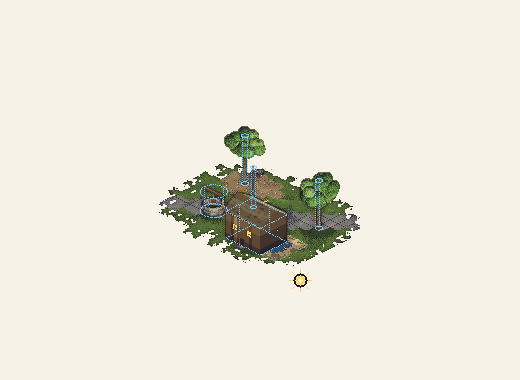
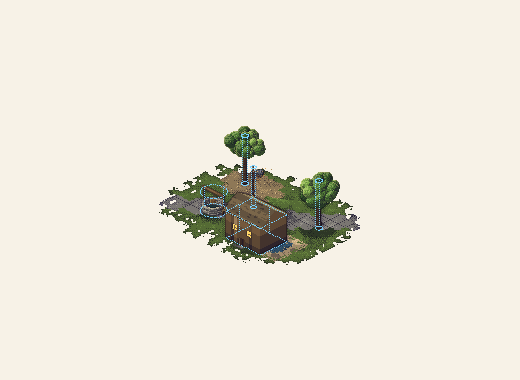
光照复刻参考项目：固定光照，移除动态光源
对照 reference/pixel-plays/engine.js 逐项复刻：
- sphere 光照方向用固定常量 (-.55,-.6,.58)，不再读 LIGHT.dir
- box 三面亮度固定 3.4/2.3/1.2（litLevel 改为查表，构件里的 ctx.lit 自动等效）
- castShadow 用固定 SHADOW_X/Y (1.3,-.12)
- 默认 LIGHT.dir/shadow 恢复参考值
- 移除预览 ☀ 控件、编辑器太阳 gizmo、光照方向滑块
  （参考项目的光照是固定美术设定，不是可交互光源）

同时修复三轴改造引入的逆旋转 bug：
unproject 的逆变换写成了正向旋转，23° 预览下锥树树冠被裁掉一半
（10491 → 5253 像素），改回转置后恢复（10329）。

diff --git a/demo/studio/editor-light.js b/demo/studio/editor-light.js
@@ -12,38 +12,8 @@
 function ED_initLightingUI() {
   const amb = document.getElementById('lt-ambient');
   const vg = document.getElementById('lt-vignette');
-  const lz = document.getElementById('lt-z');
-  const lr = document.getElementById('lt-rot');
   const pts = document.getElementById('lt-points');
   if (!amb) return;
-
-  const syncDir = () => {
-    /* 方位角（水平面内的光来向）+ 高度角 → 光照向量。
-       0° = 光从屏幕左上（经典等距默认），顺时针旋转 */
-    const a = Number(lr.value) * Math.PI / 180;
-    const hz = Number(lz.value);
-    const horiz = Math.sqrt(Math.max(0, 1 - hz * hz));
-    LIGHT.dir.x = -Math.cos(a) * horiz;
-    LIGHT.dir.y = -Math.sin(a) * horiz;
-    LIGHT.dir.z = hz;
-    /* 阴影投向背光侧 = 光传播方向的水平投影（与 dir.xy 同向） */
-    LIGHT.shadow.x = 1.5 * LIGHT.dir.x / Math.max(.2, LIGHT.dir.z);
-    LIGHT.shadow.y = 1.5 * LIGHT.dir.y / Math.max(.2, LIGHT.dir.z);
-    document.getElementById('v-lightz').textContent = hz.toFixed(2);
-    document.getElementById('v-lightrot').textContent = lr.value + '°';
-    ED.dirty = true;
-  };
-
-  /* 初始化：用引擎当前的方向光回填滑块（否则滑块默认值会把 LIGHT.dir 改掉） */
-  {
-    const hz0 = Math.max(.15, Math.min(.95, LIGHT.dir.z));
-    let a0 = Math.atan2(-LIGHT.dir.y, -LIGHT.dir.x) * 180 / Math.PI;
-    a0 = ((a0 % 360) + 360) % 360;
-    lz.value = hz0.toFixed(2);
-    lr.value = String(Math.round(a0));
-    document.getElementById('v-lightz').textContent = hz0.toFixed(2);
-    document.getElementById('v-lightrot').textContent = Math.round(a0) + '°';
-  }
 
   amb.addEventListener('input', () => {
     LIGHT.ambient = Number(amb.value);
@@ -55,8 +25,6 @@ function ED_initLightingUI() {
     document.getElementById('v-vignette').textContent = Number(vg.value).toFixed(2);
     ED.dirty = true;
   });
-  lz.addEventListener('input', syncDir);
-  lr.addEventListener('input', syncDir);
   if (pts) pts.addEventListener('change', () => {
     /* 关掉点光源 = 清空收集（渲染时跳过） */
     ED.pointsEnabled = pts.checked;
@@ -250,82 +218,3 @@ function ED_renderLightPanel(info) {
 }
 
 
-/* ---------------- 太阳 gizmo：方向光可视化拖动 ----------------
- * 画布右上区域一个太阳，拖它 = 改方向光的方位角与高度角。
- * 方位：太阳相对画布中心的方向；高度：离中心越近越高（顶光）。
- * 与「光照」面板的两个滑块共用同一条 syncDir 通道。
- */
-
-function ED_sunPos() {
-  const cx = W / 2, cy = H / 2;
-  const maxR = Math.min(W, H) * .38;
-  const horiz = Math.hypot(LIGHT.dir.x, LIGHT.dir.y) || .001;
-  /* 光传播方向的反向 = 光源所在侧 */
-  const ux = -LIGHT.dir.x / horiz, uy = -LIGHT.dir.y / horiz;
-  /* 固定在视口外圈：顶光也离中心够远，不会被场景物体盖住 */
-  const dist = (0.62 + 0.38 * (1 - LIGHT.dir.z)) * maxR;
-  return { x: cx + ux * dist, y: cy + uy * dist, cx, cy, maxR };
-}
-
-function ED_drawSun() {
-  if (ED.tool === 'pan') return;
-  const p = ED_sunPos();
-  const glow = rgb(255, 210, 110), core = rgb(255, 246, 196);
-  const ink = rgb(26, 26, 32);
-  const px = Math.round(p.x), py = Math.round(p.y);
-
-  /* 方向虚线：从太阳指向场景中心（光传播方向），暗底 + 亮线，任何背景上都读得出来 */
-  const dx = p.cx - p.x, dy = p.cy - p.y;
-  const len = Math.hypot(dx, dy) || 1;
-  const ux = dx / len, uy = dy / len;
-  for (let t = 16; t < len - 14; t += 10) {
-    const x = Math.round(p.x + ux * t), y = Math.round(p.y + uy * t);
-    ED_plotScreen(x, y, ink);
-    ED_plotScreen(x, y + 1, glow);
-  }
-  /* 箭头（靠近中心一端） */
-  const ax = Math.round(p.x + ux * (len - 12)), ay = Math.round(p.y + uy * (len - 12));
-  for (let k = -2; k <= 2; k++) {
-    ED_plotScreen(ax - Math.round(uy * k), ay + Math.round(ux * k), glow);
-  }
-
-  /* 暗色外圈：把太阳从场景里"抠"出来 */
-  for (let dy2 = -7; dy2 <= 7; dy2++) for (let dx2 = -7; dx2 <= 7; dx2++) {
-    const d2 = dx2 * dx2 + dy2 * dy2;
-    if (d2 > 49 || d2 <= 25) continue;
-    ED_plotScreen(px + dx2, py + dy2, ink);
-  }
-  /* 太阳本体 */
-  for (let dy2 = -5; dy2 <= 5; dy2++) for (let dx2 = -5; dx2 <= 5; dx2++) {
-    const d2 = dx2 * dx2 + dy2 * dy2;
-    if (d2 > 24) continue;
-    ED_plotScreen(px + dx2, py + dy2, d2 <= 4 ? core : glow);
-  }
-  /* 光芒 */
-  for (let k = 0; k < 8; k++) {
-    const a = k / 8 * Math.PI * 2;
-    for (let r = 8; r <= 11; r++) {
-      ED_plotScreen(Math.round(px + Math.cos(a) * r), Math.round(py + Math.sin(a) * r), glow);
-    }
-  }
-}
-
-/** 命中太阳（屏幕坐标，半径 12px） */
-function ED_pickSun(sx, sy) {
-  const p = ED_sunPos();
-  return Math.hypot(sx - p.x, sy - p.y) < 12;
-}
-
-/** 拖动太阳 → 更新方向光方位/高度（复用滑块的 input 通道） */
-function ED_sunDragTo(sx, sy) {
-  const p = ED_sunPos();
-  const dx = sx - p.cx, dy = sy - p.cy;
-  const dist = Math.hypot(dx, dy);
-  const hz = Math.max(.08, Math.min(1, 1 - dist / p.maxR));
-  let aDeg = Math.atan2(dy, dx) * 180 / Math.PI;
-  aDeg = ((aDeg % 360) + 360) % 360;
-  const lr = document.getElementById('lt-rot');
-  const lz = document.getElementById('lt-z');
-  if (lr) { lr.value = String(Math.round(aDeg)); lr.dispatchEvent(new Event('input')); }
-  if (lz) { lz.value = String(hz.toFixed(2)); lz.dispatchEvent(new Event('input')); }
-}

diff --git a/demo/engine.js b/demo/engine.js
@@ -1,11 +1,8 @@
 'use strict';
 /* ------------------------------------------------------------------
- * 最小等距像素渲染器
- * 参考 pixel-plays 的 engine.js，只保留最小闭环：
- * 等距投影 / 深度缓冲 / 球体+胶囊+盒子 / 5 级色阶 / Bayer 抖动 /
- * 投影阴影 / 深度边缘
- *
- * 引擎级设施：capture 像素缓存（风动基础）/ staticShadow 联动 / bakeOcclusion()。
+ * 最小等距像素渲染器（复刻 pixel-plays/engine.js）
+ * 等距投影 / 深度缓冲 / 球体+胶囊+盒子 / 5 级色阶 / Bayer 抖动 / 投影阴影 / 深度边缘
+ * 引擎级设施：capture 像素缓存（风动基础）/ staticShadow 联动 / bakeOcclusion()
  * ------------------------------------------------------------------ */
 
 /* 画布尺寸：PP_W/PP_H 覆盖；PP_FULLSCREEN=true 时铺满窗口（像素数 = 窗口 / PP_SCALE）。
@@ -18,9 +15,8 @@ let OY = H / 2 + (window.PP_ORIGIN_Y == null ? 18 : window.PP_ORIGIN_Y);
 
 /* 全局光照配置（兼容 Studio 光照系统，默认等距斜上方平行光） */
 const LIGHT = window.LIGHT || {
-  /* 方向光：x/y 光来自哪侧，z 高度角；构件不自己定义光源。阴影由它派生。 */
-  dir: { x: -0.22, y: -0.5, z: 0.84 },
-  shadow: { x: 0.39, y: 0.89 },
+  dir: { x: -0.55, y: -0.6, z: 0.58 },   // 参考项目的固定光照方向
+  shadow: { x: 1.3, y: -0.12 },
   tint: [1, 1, 1],
   ambient: 1,
   vignette: 0,
@@ -28,6 +24,7 @@ const LIGHT = window.LIGHT || {
 };
 const canvas = document.getElementById('c');
 const ctx = canvas.getContext('2d');
+const SHADOW_X = 1.3, SHADOW_Y = -0.12;   // 参考项目的固定阴影偏移
 /* 地面材质标记：KIND_GRASS 的像素才长草，球场/屋顶上自动没有草 */
 const KIND_NONE = 0, KIND_GRASS = 3;
 
@@ -63,7 +60,6 @@ window.PP_SCENE = { get W() { return W; }, get H() { return H; }, get pix() { re
 const BAYER = [0, 8, 2, 10, 12, 4, 14, 6, 3, 11, 1, 9, 15, 7, 13, 5].map(v => (v + .5) / 16);
 const COOL = [46, 38, 84], WARM = [255, 232, 180];
 const GRADIENT_Y = COS / (S * SIN), EDGE = .28;
-
 
 /* rim 模式：环带内径比例（外径=1）。越小描边越粗。
  * ★ 参考图（3× 放大实测）：树冠描边是**连续的深褐色闭合轮廓**，
@@ -121,11 +117,14 @@ function tint(i, r, g, b) {
 }
 
 /* 30° 正交等距投影 */
-/* 世界法线 → 色阶档位（0~4）。由 LIGHT.dir 驱动：光从哪边来，朝那边的面就亮。 */
+/* 面亮度查表 —— 复刻参考项目 box() 的固定设定：顶 3.4 / 正 2.3 / 右 1.2。 */
 function litLevel(nx, ny, nz) {
-  const d = LIGHT.dir;
-  const l = clamp(-(d.x * nx + d.y * ny) + d.z * nz, 0, 1);
-  return clamp(1.1 + 2.6 * Math.pow(l, 1.3), 0, 4);
+  if (nz > .85) return 3.4;
+  if (ny > .3) return 2.3;
+  if (ny < -.3) return 1.5;
+  if (nx > 0) return 1.2;
+  if (nx < 0) return 2.0;
+  return 2.3;
 }
 
 function project(x, y, z) {
@@ -162,7 +161,7 @@ function sphere(x, y, z, r, c, mode) {
     /* 深度检查对 capture 同样生效：被场景物体挡住的像素不进入缓存，
        否则回放时树叶会盖在树干前面 */
     if (d <= zb[i]) continue;
-    let l = clamp(-LIGHT.dir.x * dx - LIGHT.dir.y * dy + LIGHT.dir.z * nz, 0, 1);
+    let l = clamp(-.55 * dx - .6 * dy + .58 * nz, 0, 1);
     if (mode === 'rough') l += (hash(ix, iy) - .5) * .55;
     if (dy > .35) l = Math.max(l, .12 + dy * .24);   // 地面反弹的暖光
     if (capture) {
@@ -246,7 +245,7 @@ function box(x0, y0, z0, x1, y1, z1, c, seed = 0) {
 
 /* 投影阴影：把 (x,y,z) 沿光方向压到地面，写椭圆 mask */
 function castShadow(x, y, z, r, strength = 1, dither = .4) {
-  const p = project(x + LIGHT.shadow.x * z, y + LIGHT.shadow.y * z, 0);
+  const p = project(x + SHADOW_X * z, y + SHADOW_Y * z, 0);
   const rx = r * S * 1.05, ry = rx * SIN + 1;
   const y0 = Math.max(0, Math.floor(p.sy - ry)), y1 = Math.min(H - 1, Math.ceil(p.sy + ry));
   const x0 = Math.max(0, Math.floor(p.sx - rx)), x1 = Math.min(W - 1, Math.ceil(p.sx + rx));

diff --git a/demo/studio/preview.js b/demo/studio/preview.js
@@ -26,8 +26,6 @@ const PV = {
   lightOn: true,
   lightTone: 'warm',     // warm | cool | neutral
   /* 方向光：方位角（屏幕方向）+ 高度角（0~1），由预览区的太阳控件驱动 */
-  sunAz: Math.atan2(0.5, 0.22),
-  sunEl: 0.84,
 };
 
 /* 背景两套（地面圆盘色阶跟着背景走） */
@@ -142,7 +140,7 @@ function PV_makeCtx(p) {
     unproject: (ix, iy, z) => {
       if (!has3D) {
         const P0 = unprojectAt(ix + .5 - aX, iy + .5 - aY, z * sc + aZ);
-        return [(P0[0] * cZ - P0[1] * sZ) / sc, (P0[0] * sZ + P0[1] * cZ) / sc];
+        return [(P0[0] * cZ + P0[1] * sZ) / sc, (-P0[0] * sZ + P0[1] * cZ) / sc];
       }
       const P0 = unprojectAt(ix + .5 - aX, iy + .5 - aY, pivotZ + aZ);
       const kd = R2 / 2 * COS / SIN;
@@ -226,17 +224,7 @@ function PV_render() {
 /* 光源开关 + 色系：开关只改光的方向（关 → 顶光，明暗更平）；
    色系是整幅画面的 RGB 乘数（暖白/冷白/中性） */
 function PV_applyLight() {
-  const el = PV.sunEl;
-  const horiz = Math.sqrt(Math.max(0, 1 - el * el));
-  const dir = PV.lightOn
-    ? { x: -Math.cos(PV.sunAz) * horiz, y: -Math.sin(PV.sunAz) * horiz, z: el }
-    : { x: 0, y: 0, z: 1 };
-  if (typeof LIGHT !== 'undefined' && LIGHT.dir) {
-    LIGHT.dir.x = dir.x; LIGHT.dir.y = dir.y; LIGHT.dir.z = dir.z;
-    /* 阴影投向背光侧：与方向光的水平投影一致 */
-    LIGHT.shadow.x = 1.5 * dir.x / Math.max(.2, dir.z);
-    LIGHT.shadow.y = 1.5 * dir.y / Math.max(.2, dir.z);
-  }
+  /* 光照明暗是固定美术设定（复刻参考项目）；这里只做色系乘数 */
   const t = PV_LIGHT_TONES[PV.lightTone] || PV_LIGHT_TONES.neutral;
   const gain = PV.lightOn ? 1 : 1.08;              // 关灯时整体提亮一点，弥补失去的方向光
   if (t[0] === 1 && t[1] === 1 && t[2] === 1 && gain === 1) return;
@@ -366,13 +354,6 @@ window.addEventListener('message', e => {
   if (msg.type === 'rot') {
     const v = Number(msg.rot);
     PV.rot = Number.isFinite(v) ? v : 0;
-    PV_render();
-    return;
-  }
-  if (msg.type === 'sun') {
-    const az = Number(msg.az), el = Number(msg.el);
-    if (Number.isFinite(az)) PV.sunAz = az;
-    if (Number.isFinite(el)) PV.sunEl = Math.max(.12, Math.min(1, el));
     PV_render();
     return;
   }

diff --git a/demo/studio/editor.html b/demo/studio/editor.html
@@ -295,15 +295,7 @@
           <label>暗角 <b id="v-vignette">0.00</b></label>
           <input type="range" id="lt-vignette" min="0" max="0.8" step="0.05" value="0">
         </div>
-        <div class="slider">
-          <label>光源高度角 <b id="v-lightz">0.58</b></label>
-          <input type="range" id="lt-z" min="0.15" max="0.95" step="0.01" value="0.58">
-        </div>
-        <div class="slider">
-          <label>光源方位 <b id="v-lightrot">0°</b></label>
-          <input type="range" id="lt-rot" min="0" max="360" step="10" value="0">
-        </div>
-        <label class="chk" style="margin:4px 0 6px">色调预设:</label>
+<label class="chk" style="margin:4px 0 6px">色调预设:</label>
         <div class="pill-row" style="margin-bottom:6px">
           <button class="pill on" data-tint="default">正午</button>
           <button class="pill" data-tint="warm">暖阳</button>

diff --git a/demo/studio/app.css b/demo/studio/app.css
@@ -344,14 +344,3 @@ button.primary:disabled { opacity: .45; cursor: default; }
 .ai-settings .actions { display: flex; align-items: center; gap: 8px; justify-content: flex-end; margin-top: 6px; }
 .ai-settings .set-status { margin-right: auto; font-size: 11px; color: var(--accent); }
 
-/* ---------- 预览里的太阳控件（方向光） ---------- */
-.pv-sun {
-  position: absolute; left: 12px; top: 12px; z-index: 3;
-  width: 34px; height: 34px; border-radius: 50%;
-  display: grid; place-items: center; font-size: 18px; line-height: 1;
-  background: rgba(30, 30, 38, .72); border: 1px solid var(--line);
-  color: #ffd86a; cursor: grab; user-select: none; touch-action: none;
-  box-shadow: 0 2px 10px rgba(0,0,0,.35);
-}
-.pv-sun:hover { border-color: var(--accent); }
-.pv-sun.dragging { cursor: grabbing; background: rgba(60, 50, 20, .9); border-color: var(--accent); }

diff --git a/demo/studio/editor-canvas.js b/demo/studio/editor-canvas.js
@@ -41,13 +41,6 @@ function ED_bindCanvas() {
       }
     }
 
-    /* 太阳 gizmo 优先：拖它 = 转方向光，不影响地形/选择 */
-    if (typeof ED_pickSun === 'function' && ED_pickSun(sp.sx, sp.sy)) {
-      ED.sunDragging = true;
-      ED_sunDragTo(sp.sx, sp.sy);
-      e.preventDefault();
-      return;
-    }
     const w = toWorld(e);
     if (ED_toolLocked(ED.tool)) {
       studioStatus('底图模式下地形工具不可用（场景地面是烘焙产物）—— 构件放置/选择不受限', 'err');
@@ -113,11 +106,6 @@ function ED_bindCanvas() {
   });
 
   stageEl.addEventListener('pointermove', e => {
-    if (ED.sunDragging) {
-      const s0 = toScreen(e);
-      ED_sunDragTo(s0.sx, s0.sy);
-      return;
-    }
     const w = toWorld(e);
     const g = TERRAIN.toGrid(w.x, w.y);
     document.getElementById('pos').textContent =

diff --git a/demo/kit/render.js b/demo/kit/render.js
@@ -193,7 +193,8 @@ const KIT_RENDER = {
           /* 平面旋转：直接反解到该局部的 z 平面（旧行为） */
           const P0 = unprojectAt(ix + .5 - aX, iy + .5 - aY, pz + z * sc + aZ);
           const dx = P0[0] - ox, dy = P0[1] - oy;
-          return [ox + (dx * cZ - dy * sZ) / sc, oy + (dx * sZ + dy * cZ) / sc];
+          /* 逆旋转 = Rz 的转置：与正向 x' = x·c - y·s, y' = x·s + y·c 互逆 */
+          return [ox + (dx * cZ + dy * sZ) / sc, oy + (-dx * sZ + dy * cZ) / sc];
         }
         /* 三轴旋转：屏幕像素确定一条世界射线，求它与"局部 z 平面"的交点 */
         const P0 = unprojectAt(ix + .5 - aX, iy + .5 - aY, pivotZ + aZ);

diff --git a/demo/studio/app.html b/demo/studio/app.html
@@ -72,7 +72,6 @@
     <div class="preview-wrap" id="pv-wrap">
       <iframe id="pv" src="preview.html" title="构件动画预览"></iframe>
       <div class="pv-shield" id="pv-shield" title="拖拽平移 · 滚轮缩放"></div>
-      <div class="pv-sun" id="pv-sun" title="按住拖动 = 调光照方向（离中心越近越像顶光）">☀</div>
       <div class="pv-hint">拖拽平移 · 滚轮缩放</div>
     </div>
 
@@ -263,7 +262,6 @@
 <script src="app-props.js"></script>
 <script src="app-ai.js"></script>
 <script src="app-settings.js"></script>
-<script src="app-sun.js"></script>
 <script src="app-behavior.js"></script>
 </body>
 </html>

diff --git a/demo/studio/editor-render.js b/demo/studio/editor-render.js
@@ -114,9 +114,6 @@ function ED_render(t = 0) {
   /* 全局光照：点光源（路灯等）→ 色调/环境/暗角 */
   PP_shadePoints();
   PP_applyGrade();
-
-  /* 太阳 gizmo 画在调色之后：它是操作控件，不该被场景色调影响 */
-  if (typeof ED_drawSun === 'function') ED_drawSun();
   if (typeof ED_drawLightIcons === 'function') ED_drawLightIcons();   /* 光源图标（不被色调影响） */
 
   /* 直接将 engine.js 的全局 image 提交到画布 */
